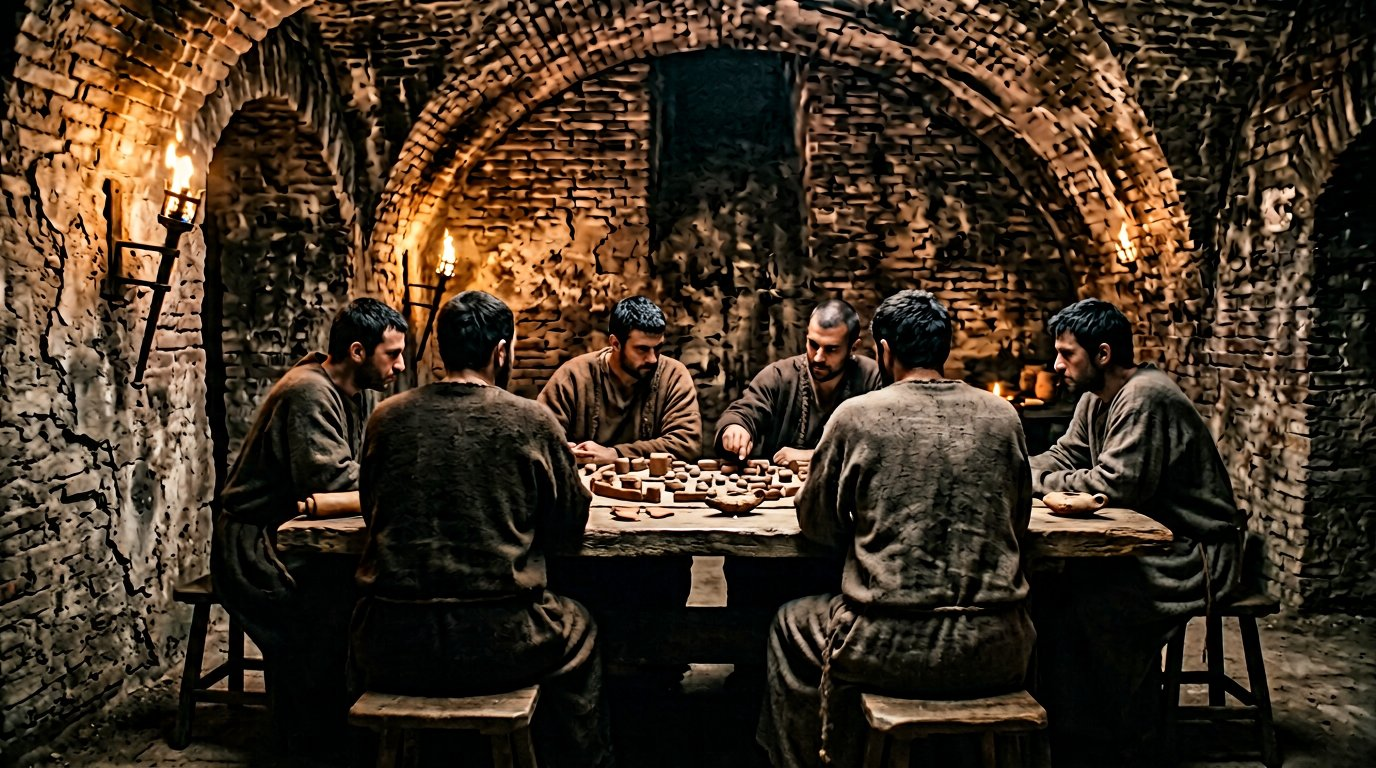
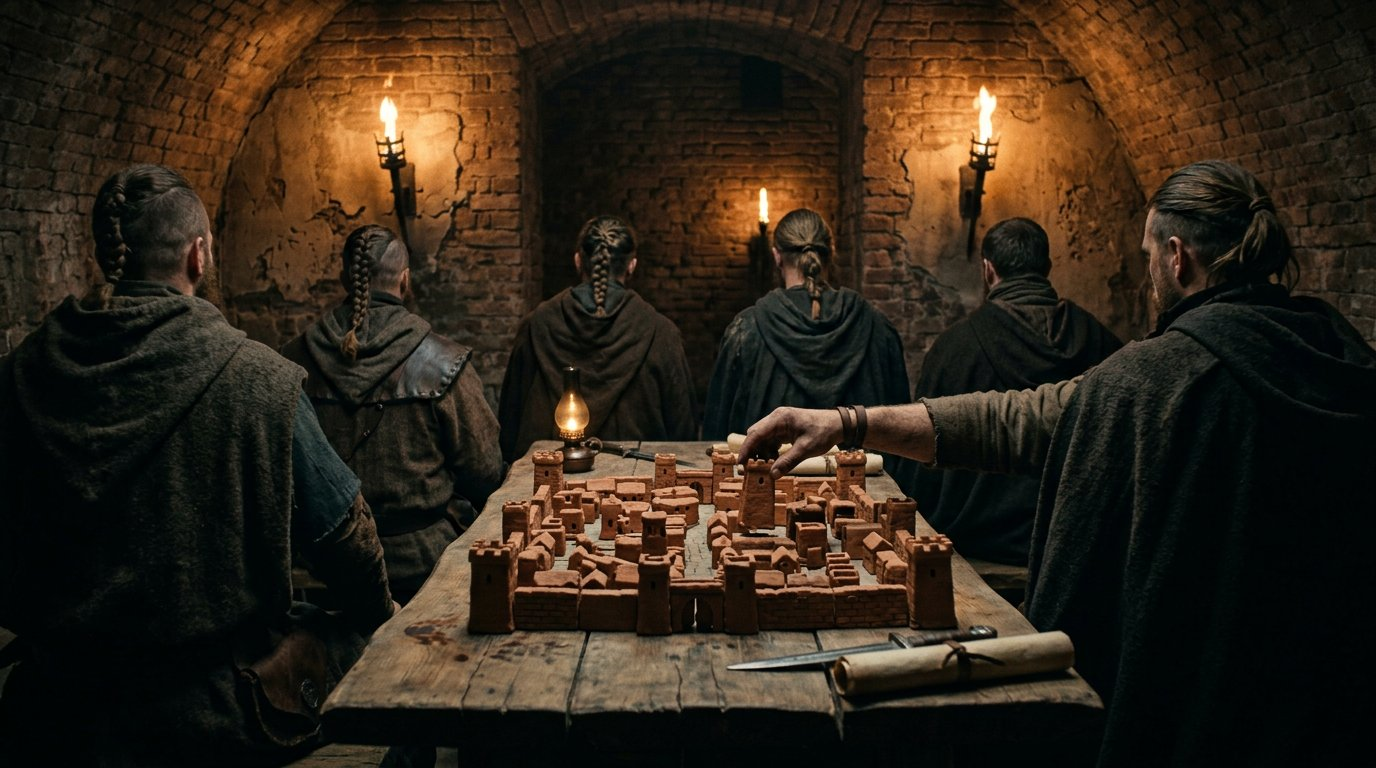
fix(art): 024 had a legible face and 042 had four of them
024 was a large, sharply lit, fully recognisable face under a leather
cloak on a quay, plus a gabled timbered house its direction explicitly
banned. Every other scene in this film keeps faces out of frame; 024 was
never on the defect list, so the rule never reached it. Now the horse
stands alone and the frame holds no person at all.

042 put six men around a table, which forces half of them to face the
camera — it rendered four clear three-quarter faces and passed two
earlier audits. The direction's "none of them seen from the front" was
unachievable in that layout. Reframed from behind so only backs show.

diff --git a/scripts/episode-audit/ep002_scene_directions.py b/scripts/episode-audit/ep002_scene_directions.py
@@ -99,7 +99,7 @@ SCENES = {
      VALYRIA + ", grey sea, cold light"),
 23: ('A warehouse interior at night lit by three small clay oil lamps with open pinched spouts and no glass: shelves of stacked unglazed jars and tied grain sacks, a bonded clerk tallying on a wax tablet with a reed stylus, a few tally notches cut into a wooden stick, packed earth floor, low timber ceiling, long shadows, no glass lamp chimneys, no printed book, no paper leaves, no metal pen.',
     "warm lamplight"),
-24: ('A Valyrian tax official in a hooded oiled-wool cloak standing on a wet grey quay with a short desert horse, a purse at his belt, a dragon a distant black speck in the overcast, burnt brick rooflines behind, flat-roofed brick warehouses with parapets, no gables, no timber framing, no stepped roofs, no brick-arched windows, no northern European harbour.',
+24: ('A wet grey stone quay at dusk with a short desert horse standing alone, its rope halter tied to a rusted iron ring, a plain leather purse and a rolled hide document resting on a low stone bollard beside it, small boats pulled up on the water, flat-roofed brick warehouses with parapets behind, a dragon a distant black speck in the overcast, and no person anywhere in the frame. No figure, no cloaked man, no face, no hooded rider, no gabled houses, no timber framing, no brick arches.',
     "grey light"),
 25: ('A treaty written on a long roll of cured hide laid open on a low table, rows of tally notches and stamped clay seal impressions down its length, a hand resting over the place where a clause has been cut away, a clay oil lamp burning, no letters, no words, no letterforms of any alphabet, no parchment paper.',
     GHIS),
@@ -136,7 +136,7 @@ SCENES = {
      "sift down through the boards onto its lid.", "black, one grey shaft of light"),
 41: ('Four torn strips of dyed cloth hanging from iron hooks on a rough brick wall in a dim room, faded crimson and ochre and undyed linen, frayed at the hems and sun-bleached in uneven bands, the cloth stained and patched and mended by hand, no painted design and no emblem on any of them, just cloth. No heraldry, no crest, no coat of arms, no eagle, no double-headed eagle, no banner charge of any kind.',
     'faded crimson and ochre'),
-42: ('A Ghiscari council of war in a bare brick vault seen from behind at a low angle: six seated men in plain undyed robes with cropped dark hair, none of them seen from the front, a rough slab table between them carrying small clay blocks arranged as walls and streets, iron sconces on cracked plaster, no silver hair, no hooded cloaks in black, no dragon skull, no carved ornamental wall, no throne, no painted map, no gilded hall.',
+42: ('A Ghiscari council of war in a bare brick vault, seen from behind the six seated men so only the backs of their heads and shoulders are in frame, a rough slab table before them carrying small clay blocks arranged as walls and streets, a hand reaching in to move one block, iron sconces on cracked plaster, the table and the model the subject. Every head turned away from the camera, no face anywhere, no profile, no one looking up.',
     "warm firelight"),
 43: ("Two men seated opposite each other at a rough plank table in a dim brick room, seen from behind one man's shoulder so neither face is legible, a clay dish of olives and flatbread between them, a small clay lamp with an open spout, a rolled hide document, no glass cups, no goblets, no bottles, no window glass, firelight only.",
     "warm firelight"),
